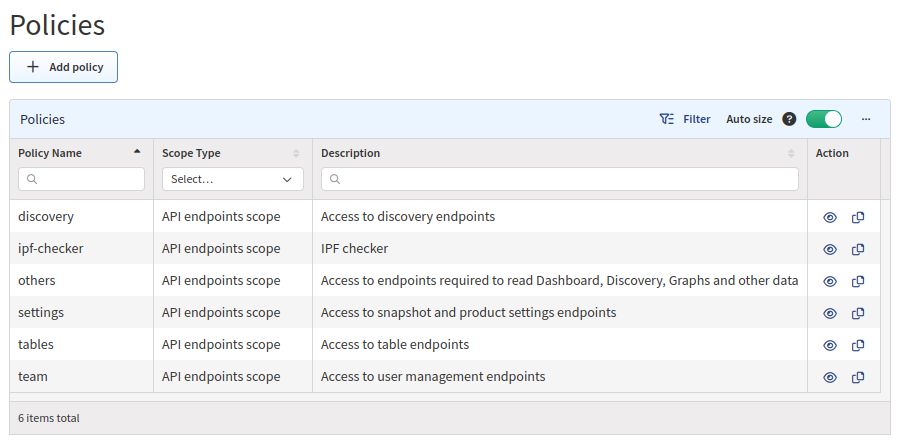
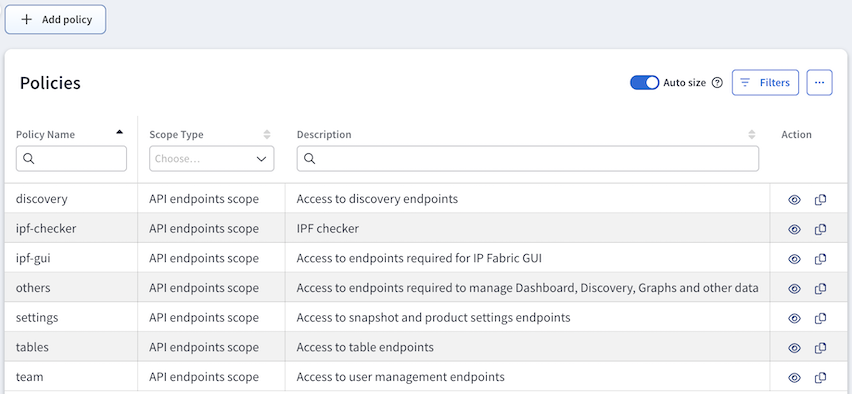
NIM-19040 Add Microsoft build release notes from backend

diff --git a/docs/releases/release_notes/7.6.md b/docs/releases/release_notes/7.6.md
@@ -55,6 +55,18 @@ Added a pre-upgrade check for available disk space to prevent the appliance from
 The `ipf-jumphost` service, which has logged to `/var/log/ipf/ipf-jumphost/` since release 7.0 to keep its logs separate from system logs, now includes
 these logs in TechSupport exports to assist with troubleshooting.
 
+#### Upgraded NodeJS to v22.19.0
+
+All JavaScript services are now running on a version `v22.19.0` of NodeJS.
+
+#### Credentials to access a database and RabbitMQ moved out of the built code
+
+Previously, due to how application configuration was handled via the JSON file, several credentials were embedded
+directly into the built JavaScript code. This is no longer the case — these credentials are now automatically
+generated and provided through environment variables. The default guest account for RabbitMQ has been removed.
+Only internal, non-management accounts are now used for communication between the application and the broker.
+
+
 ### API Changes
 
 #### Endpoint payload size limit
@@ -68,4 +80,16 @@ The payload size limit has been introduced with a default of 20 MB, except for t
 - `/snapshots/upload` -> 10 GB
 - `/graphs/vsdx` -> 25 MB
 - `/os/upload-nimpee-cert` -> 5 MB
-- `/settings` (PATCH) -> 100 MB
+- `PATCH /settings` -> 100 MB
+
+#### RBAC
+
+The built-in RBAC policy `others` (ID: read) has been renamed for greater clarity.
+Despite its ID, this policy also allows write operations for saved filters and graphs.
+
+### Other Changes
+
+- The system status page is now accessible only after login.
+- The license upload endpoint is now protected by authentication and accessible only to admin users.
+- When a user changes their password, all active sessions for that user are invalidated.
+- Session token is now invalidated upon logout.
